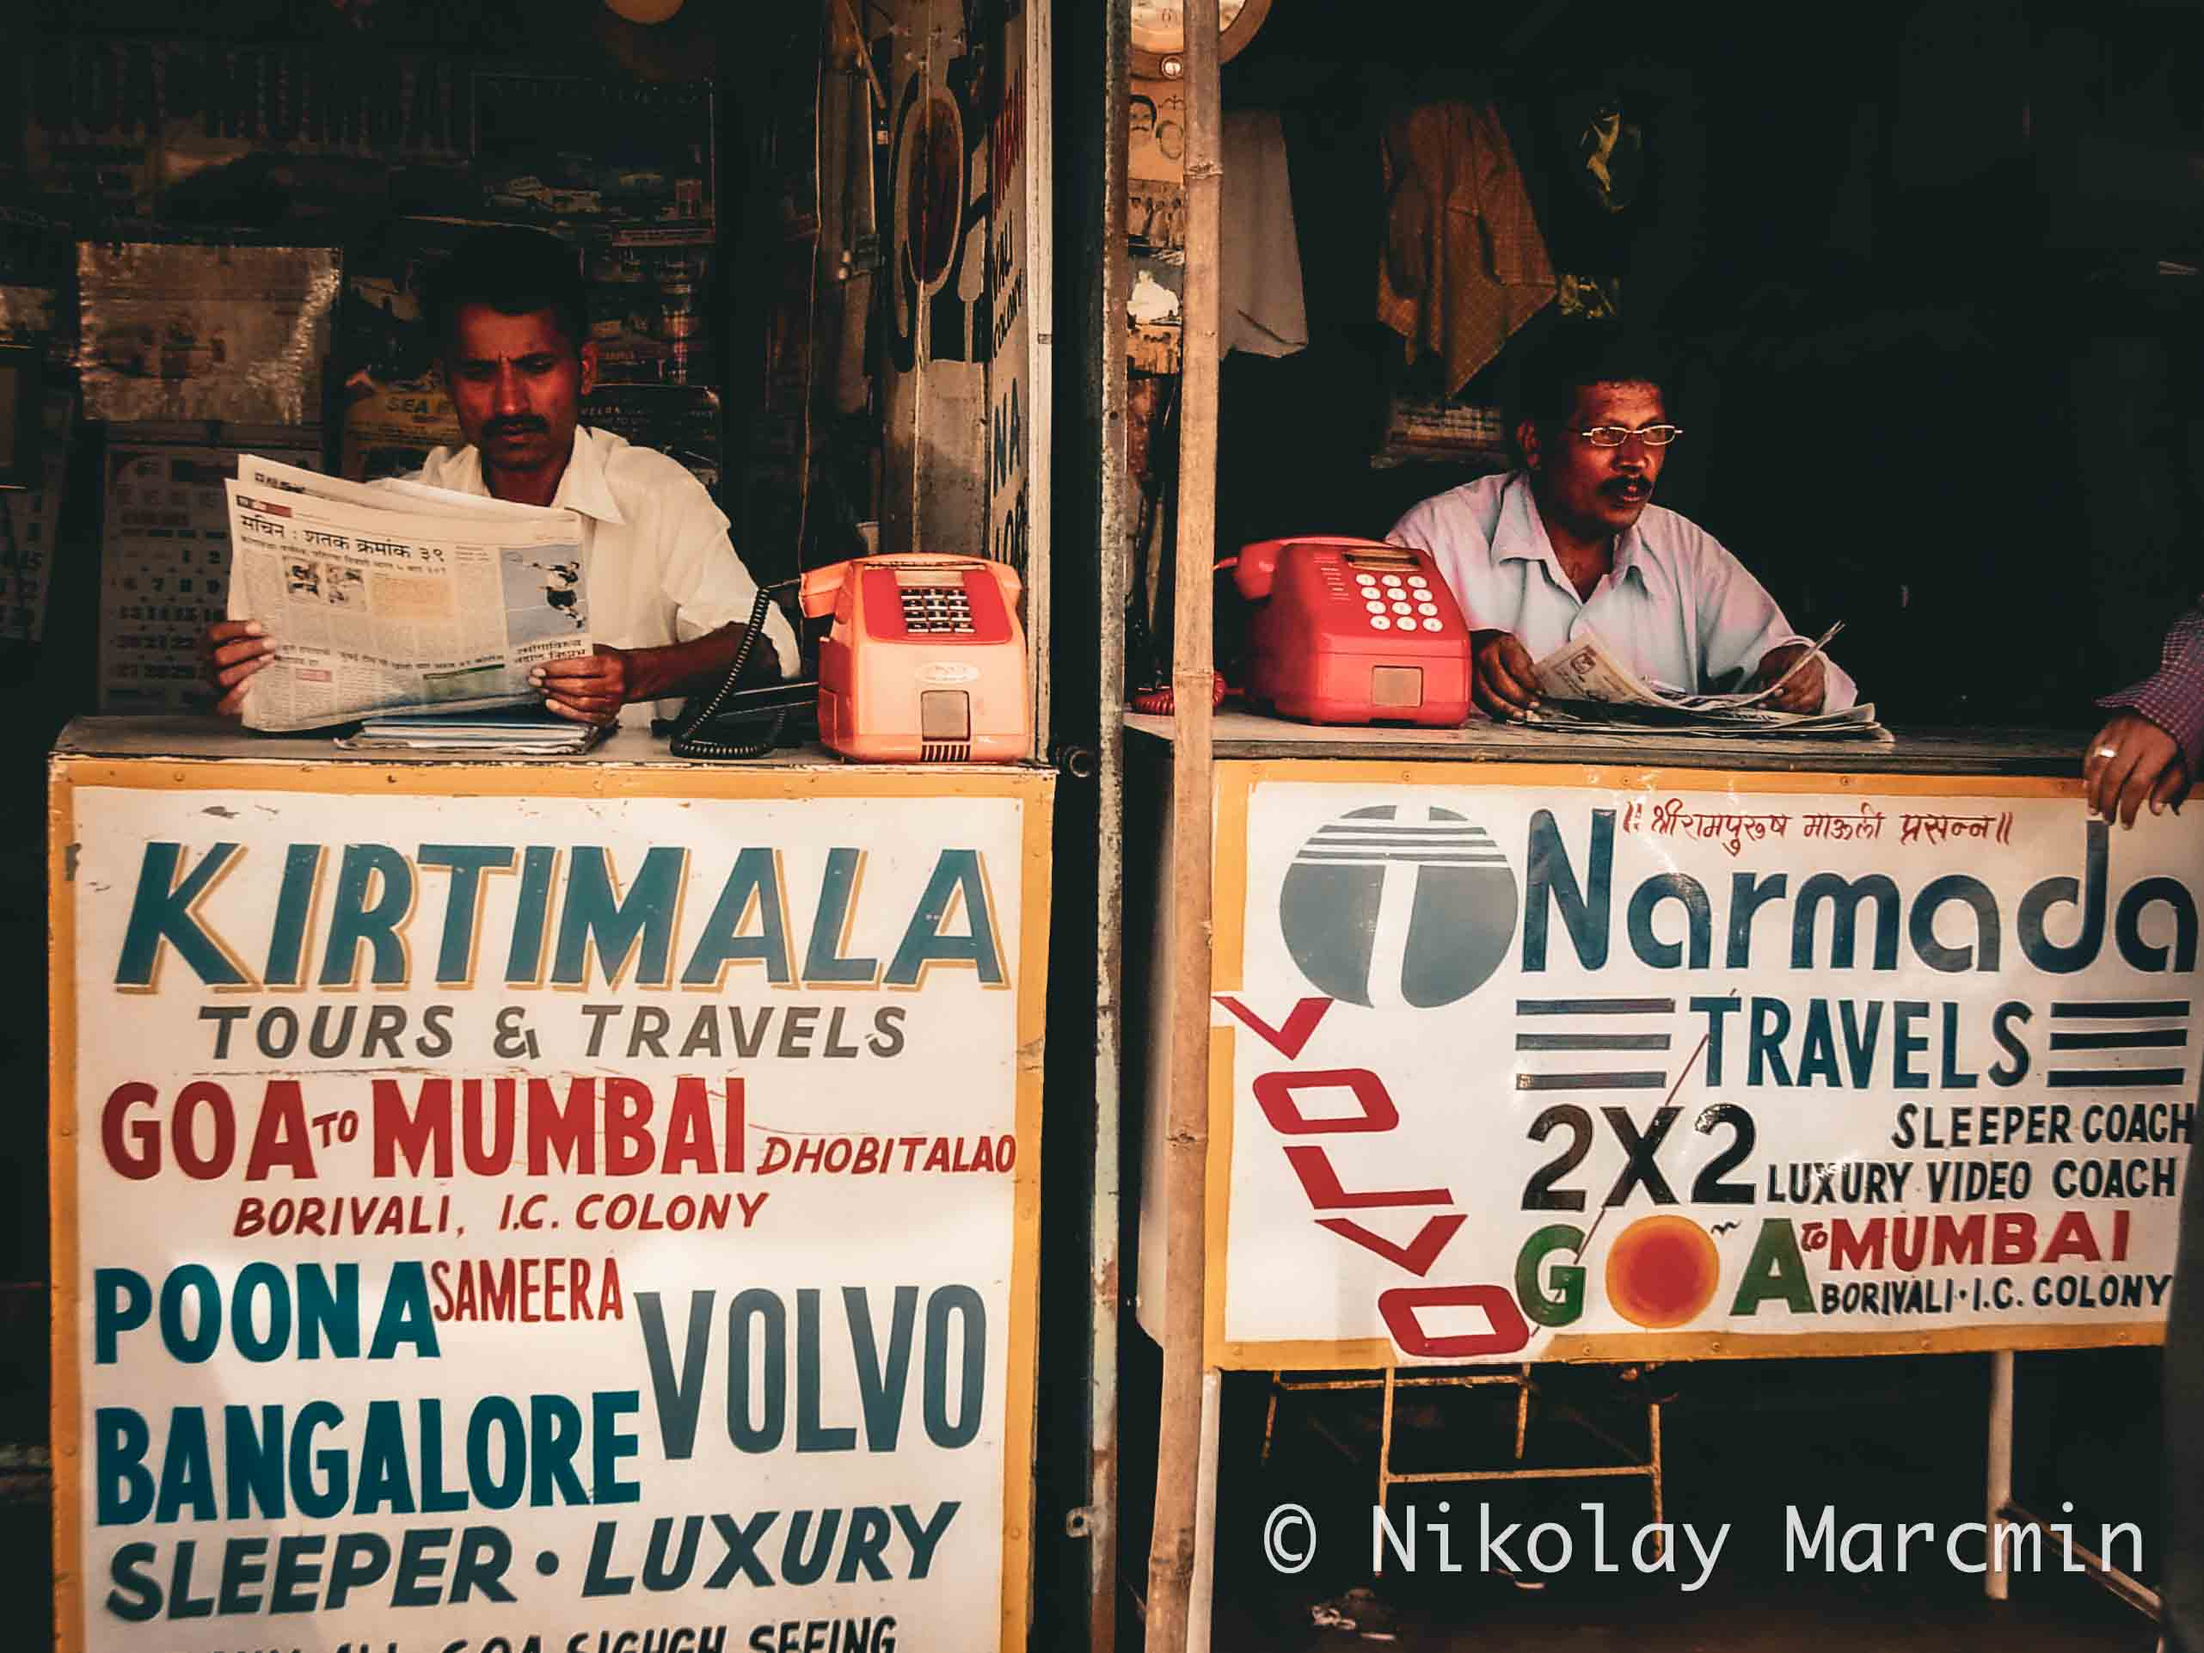
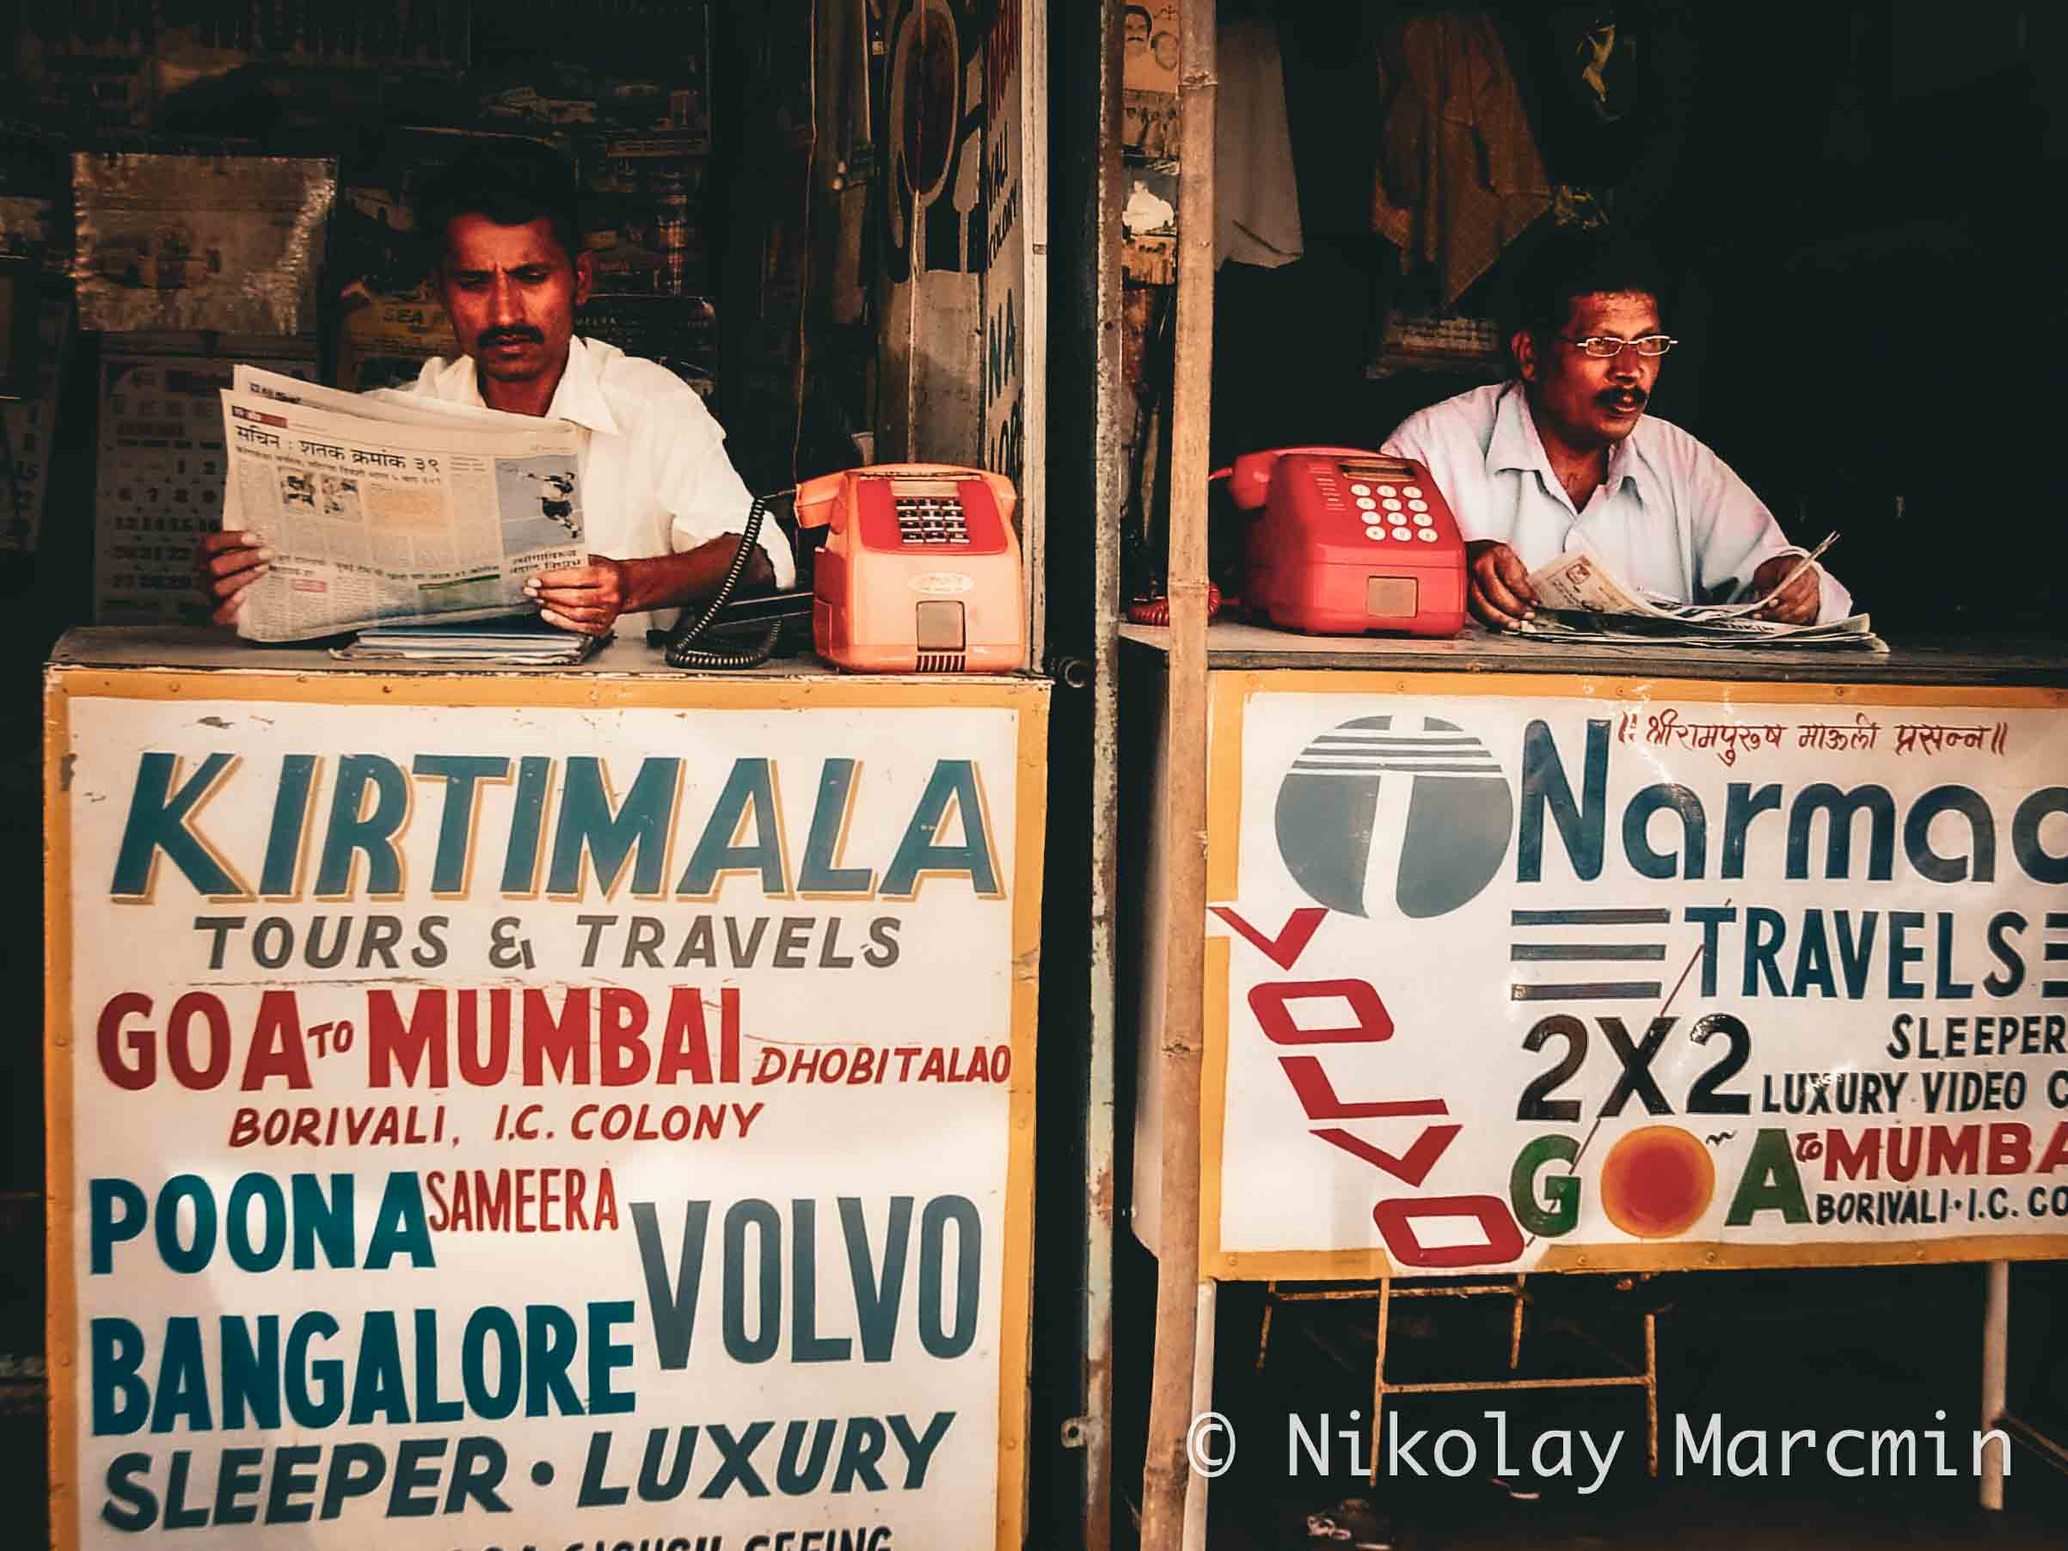
updated photo in goa photo album

diff --git a/advisory.html b/advisory.html
@@ -37,11 +37,11 @@
       <div class="advisory">
         <p>Twenty years of finance experience across frontier technology companies has taught me that the strategic finance is not a back-office function — it is a strategic weapon if used correctly. The companies that win at the frontier are the ones that understand their economics deeply, allocate capital with discipline, and tell their financial story with conviction. I help build those capabilities.</p>
           <p class="advisory-service-title">Building Finance from Scratch</p>
-          <p>For companies that need a finance function before they can afford a full-time CFO. I design the infrastructure, build the core models, establish the foundational processes, and infuse finanical intelligence to support confident decision making.</p>
+          <p>For companies that need a finance function before they can afford a full-time CFO. I design the infrastructure, build the core models, establish the foundational processes, and infuse financial intelligence to support confident decision making.</p>
           <p class="advisory-service-title">Unit Economics & Pricing Strategy</p>
           <p>For companies building frontier products with unique and complex unit economics. I help determine unit economics, build value proposition, and develop pricing architecture that captures appropriate share of the value generated by the product.</p>
           <p class="advisory-service-title">Path to Profitability</p>
-          <p>For companies navigating the transition from scaling to sustainable economics. I identify the key drivers of margin improvement, define the milestones that matter, determine capital requirments, and build the long-range financial plan that gives investors confidence in the path ahead.</p>
+          <p>For companies navigating the transition from scaling to sustainable economics. I identify the key drivers of margin improvement, define the milestones that matter, determine capital requirements, and build the long-range financial plan that gives investors confidence in the path ahead.</p>
           <p class="advisory-service-title">Investor & Board Narratives</p>
           <p>For companies preparing for fundraising or strategic transactions. I translate complex financial realities into clear, compelling narratives — distilling the economic logic of the business into the language investors and board members actually respond to.</p>
           <p class="advisory-service-title">Fractional CFO</p>
